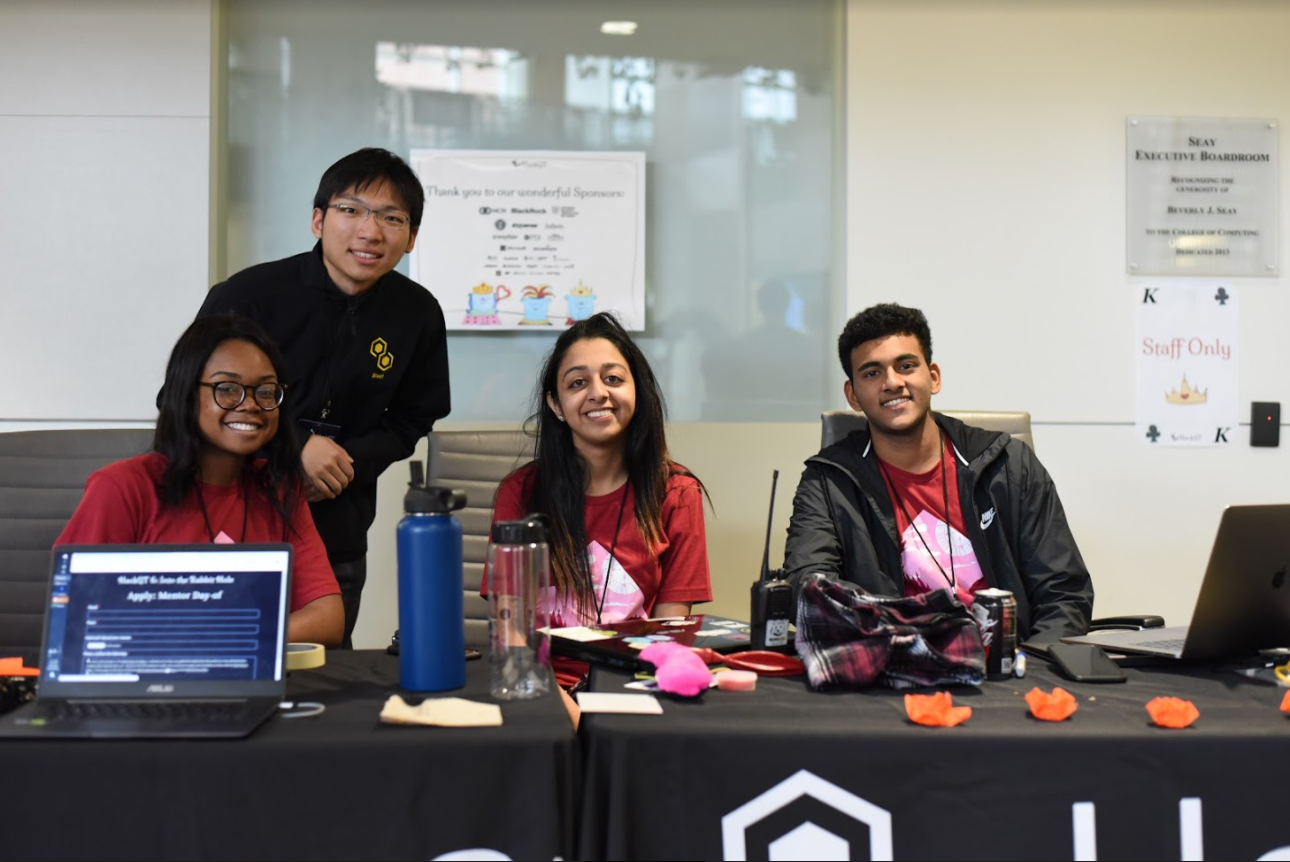
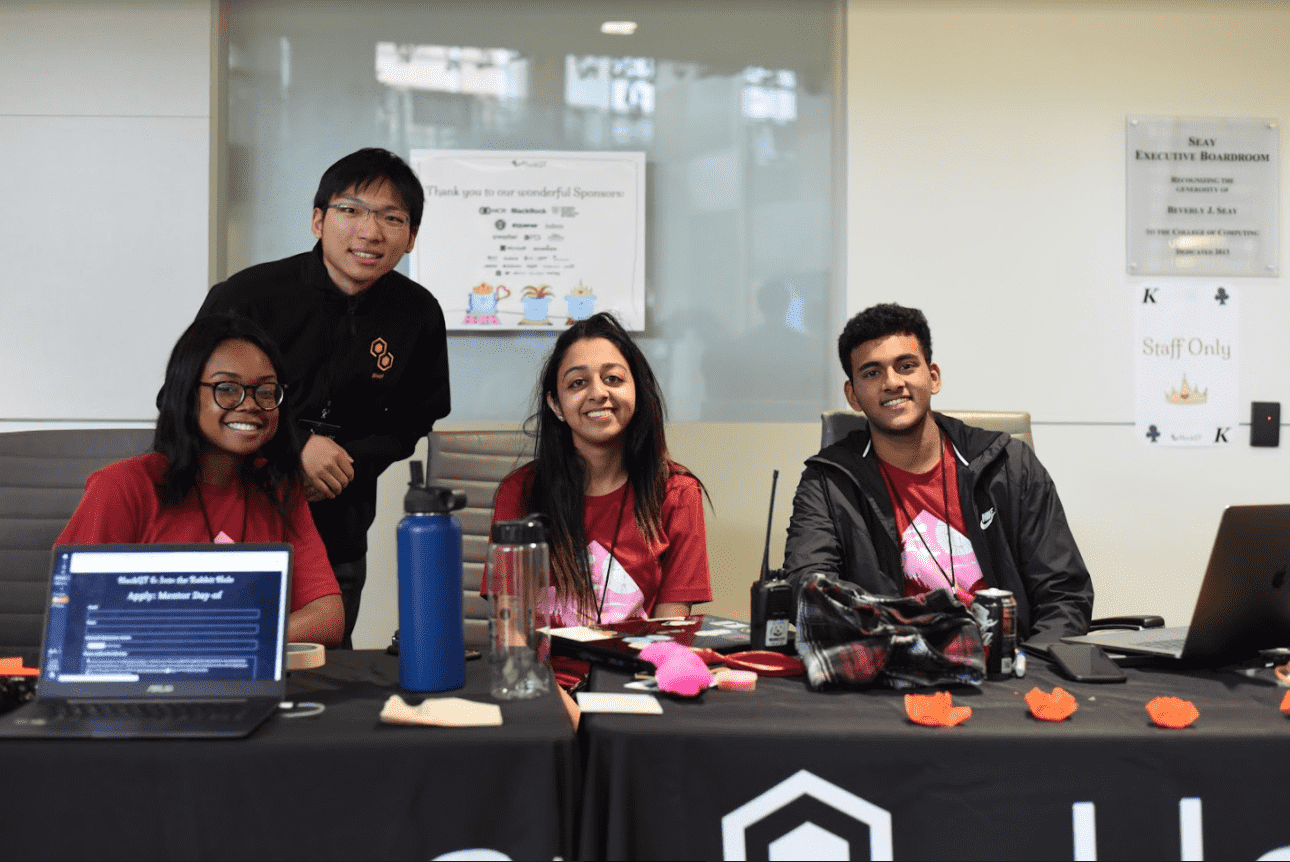
reduce file size of images

diff --git a/pages/index.tsx b/pages/index.tsx
@@ -110,7 +110,7 @@ export default function Home(props: Props) {
           </Card>
           <Card
             header="Discord"
-            coverImage="home-discord.jpeg"
+            coverImage="home-discord.jpg"
             buttons={
               <>
                 <a href="https://discord.gg/gFskbdD67F" className="button-link-solid">Join Us</a>
